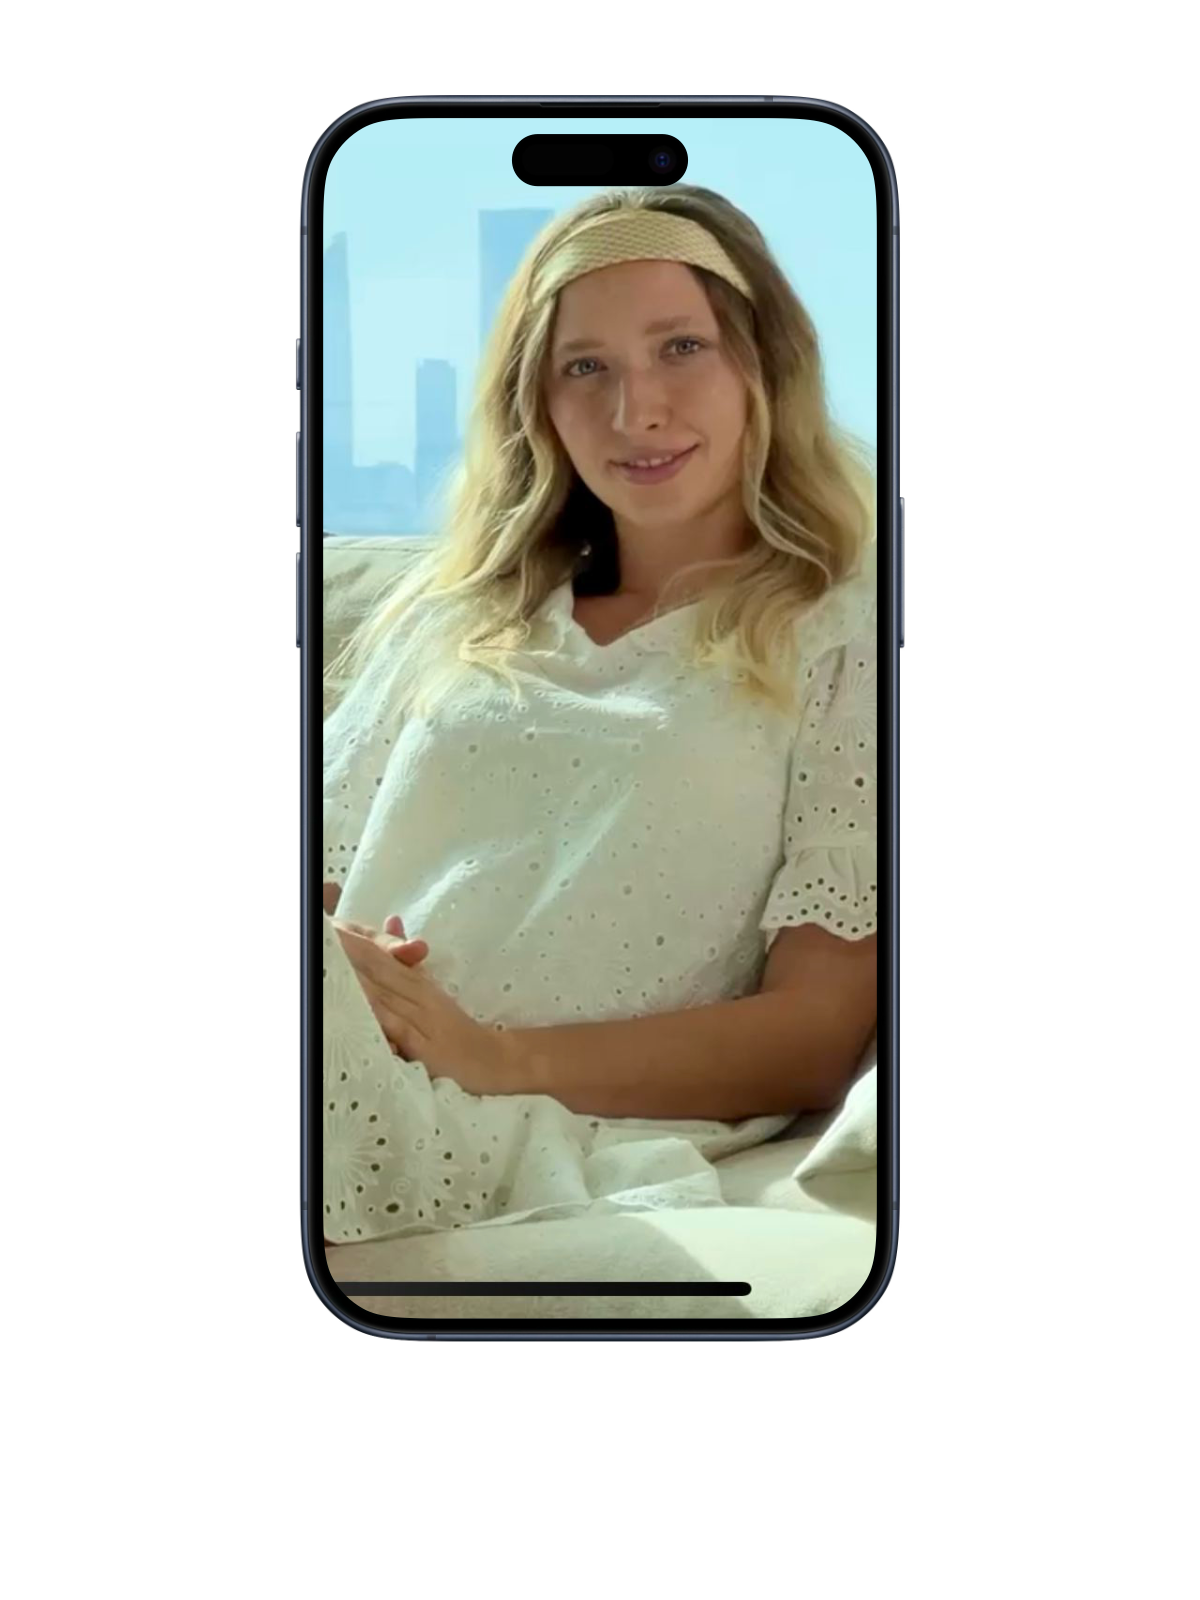
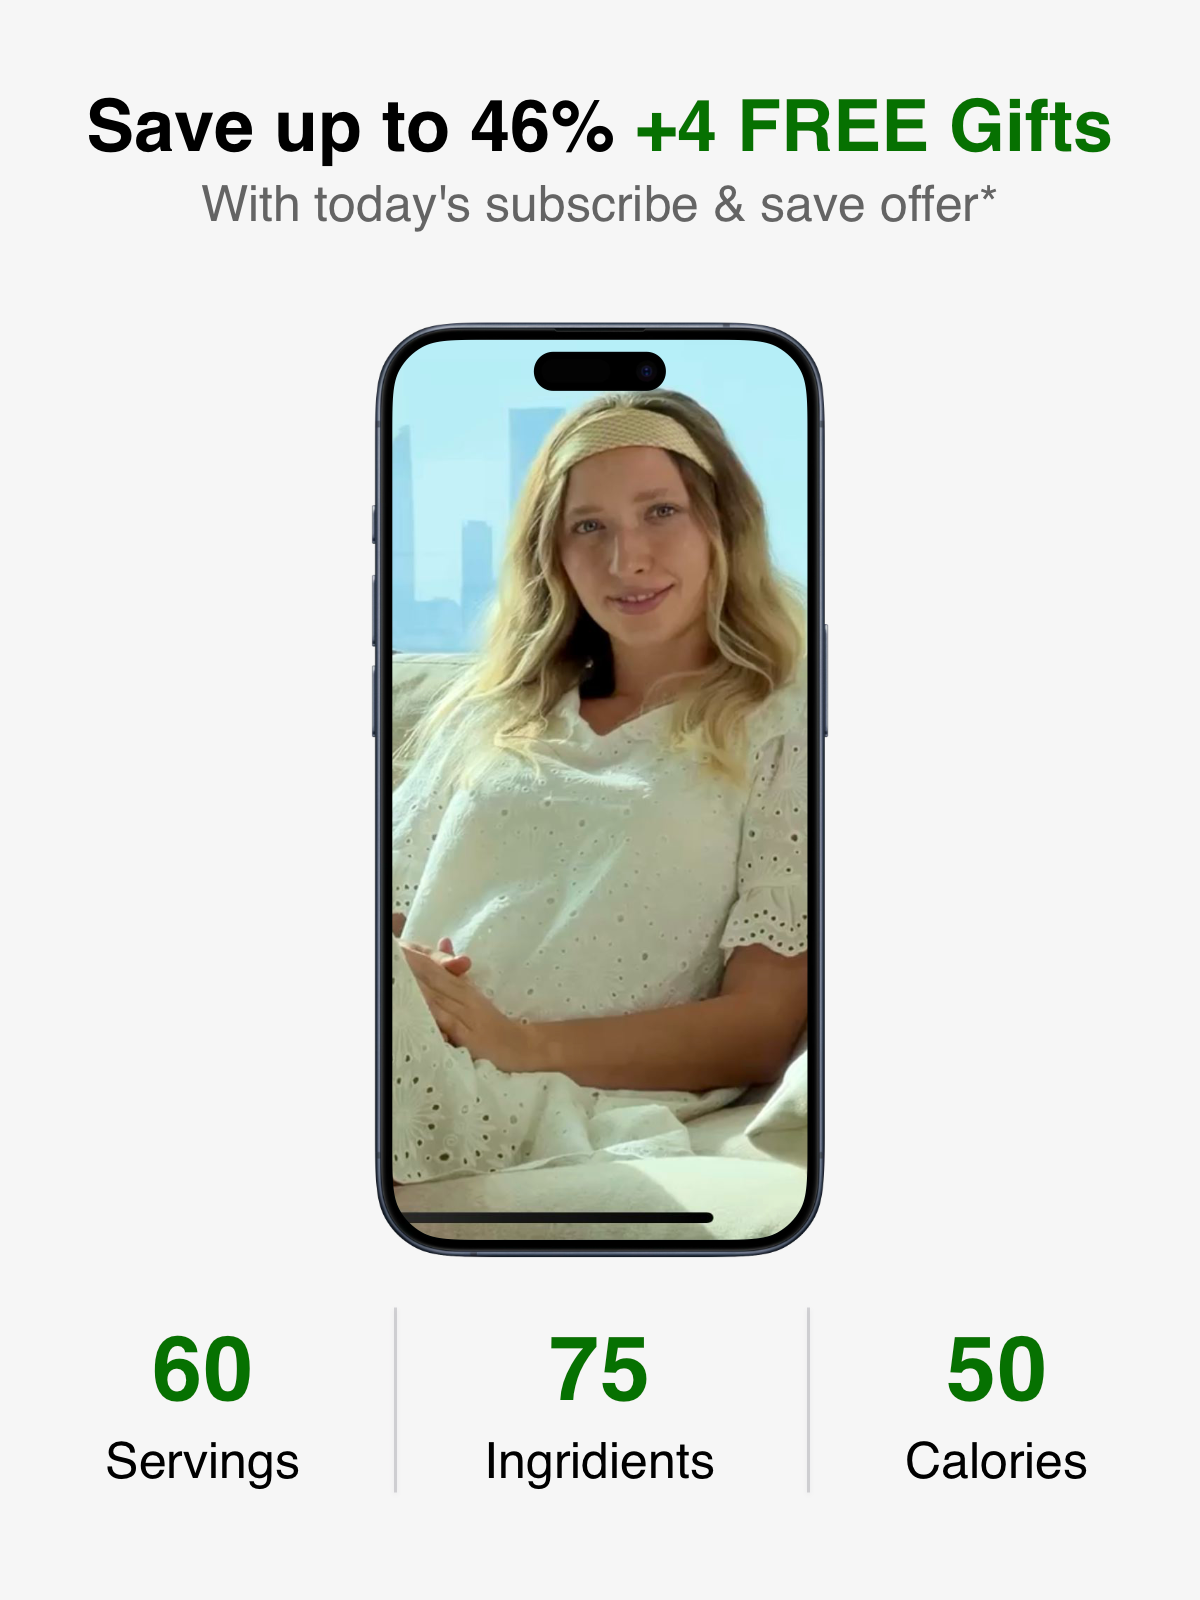
Добавлен жёлтый блок с текстом акции

diff --git a/styles.css b/styles.css
@@ -78,3 +78,11 @@ body {
     padding: 10px 0;
     width: 100%;
 }
+
+.product-img {
+    width: 100vw;  /* Во всю ширину экрана */
+    max-width: 100%;  /* Ограничиваем ширину, чтобы не выходило за границы */
+    height: auto;  /* Сохраняем пропорции */
+    display: block;
+    margin: 0 auto;  /* Убираем лишние отступы */
+}
